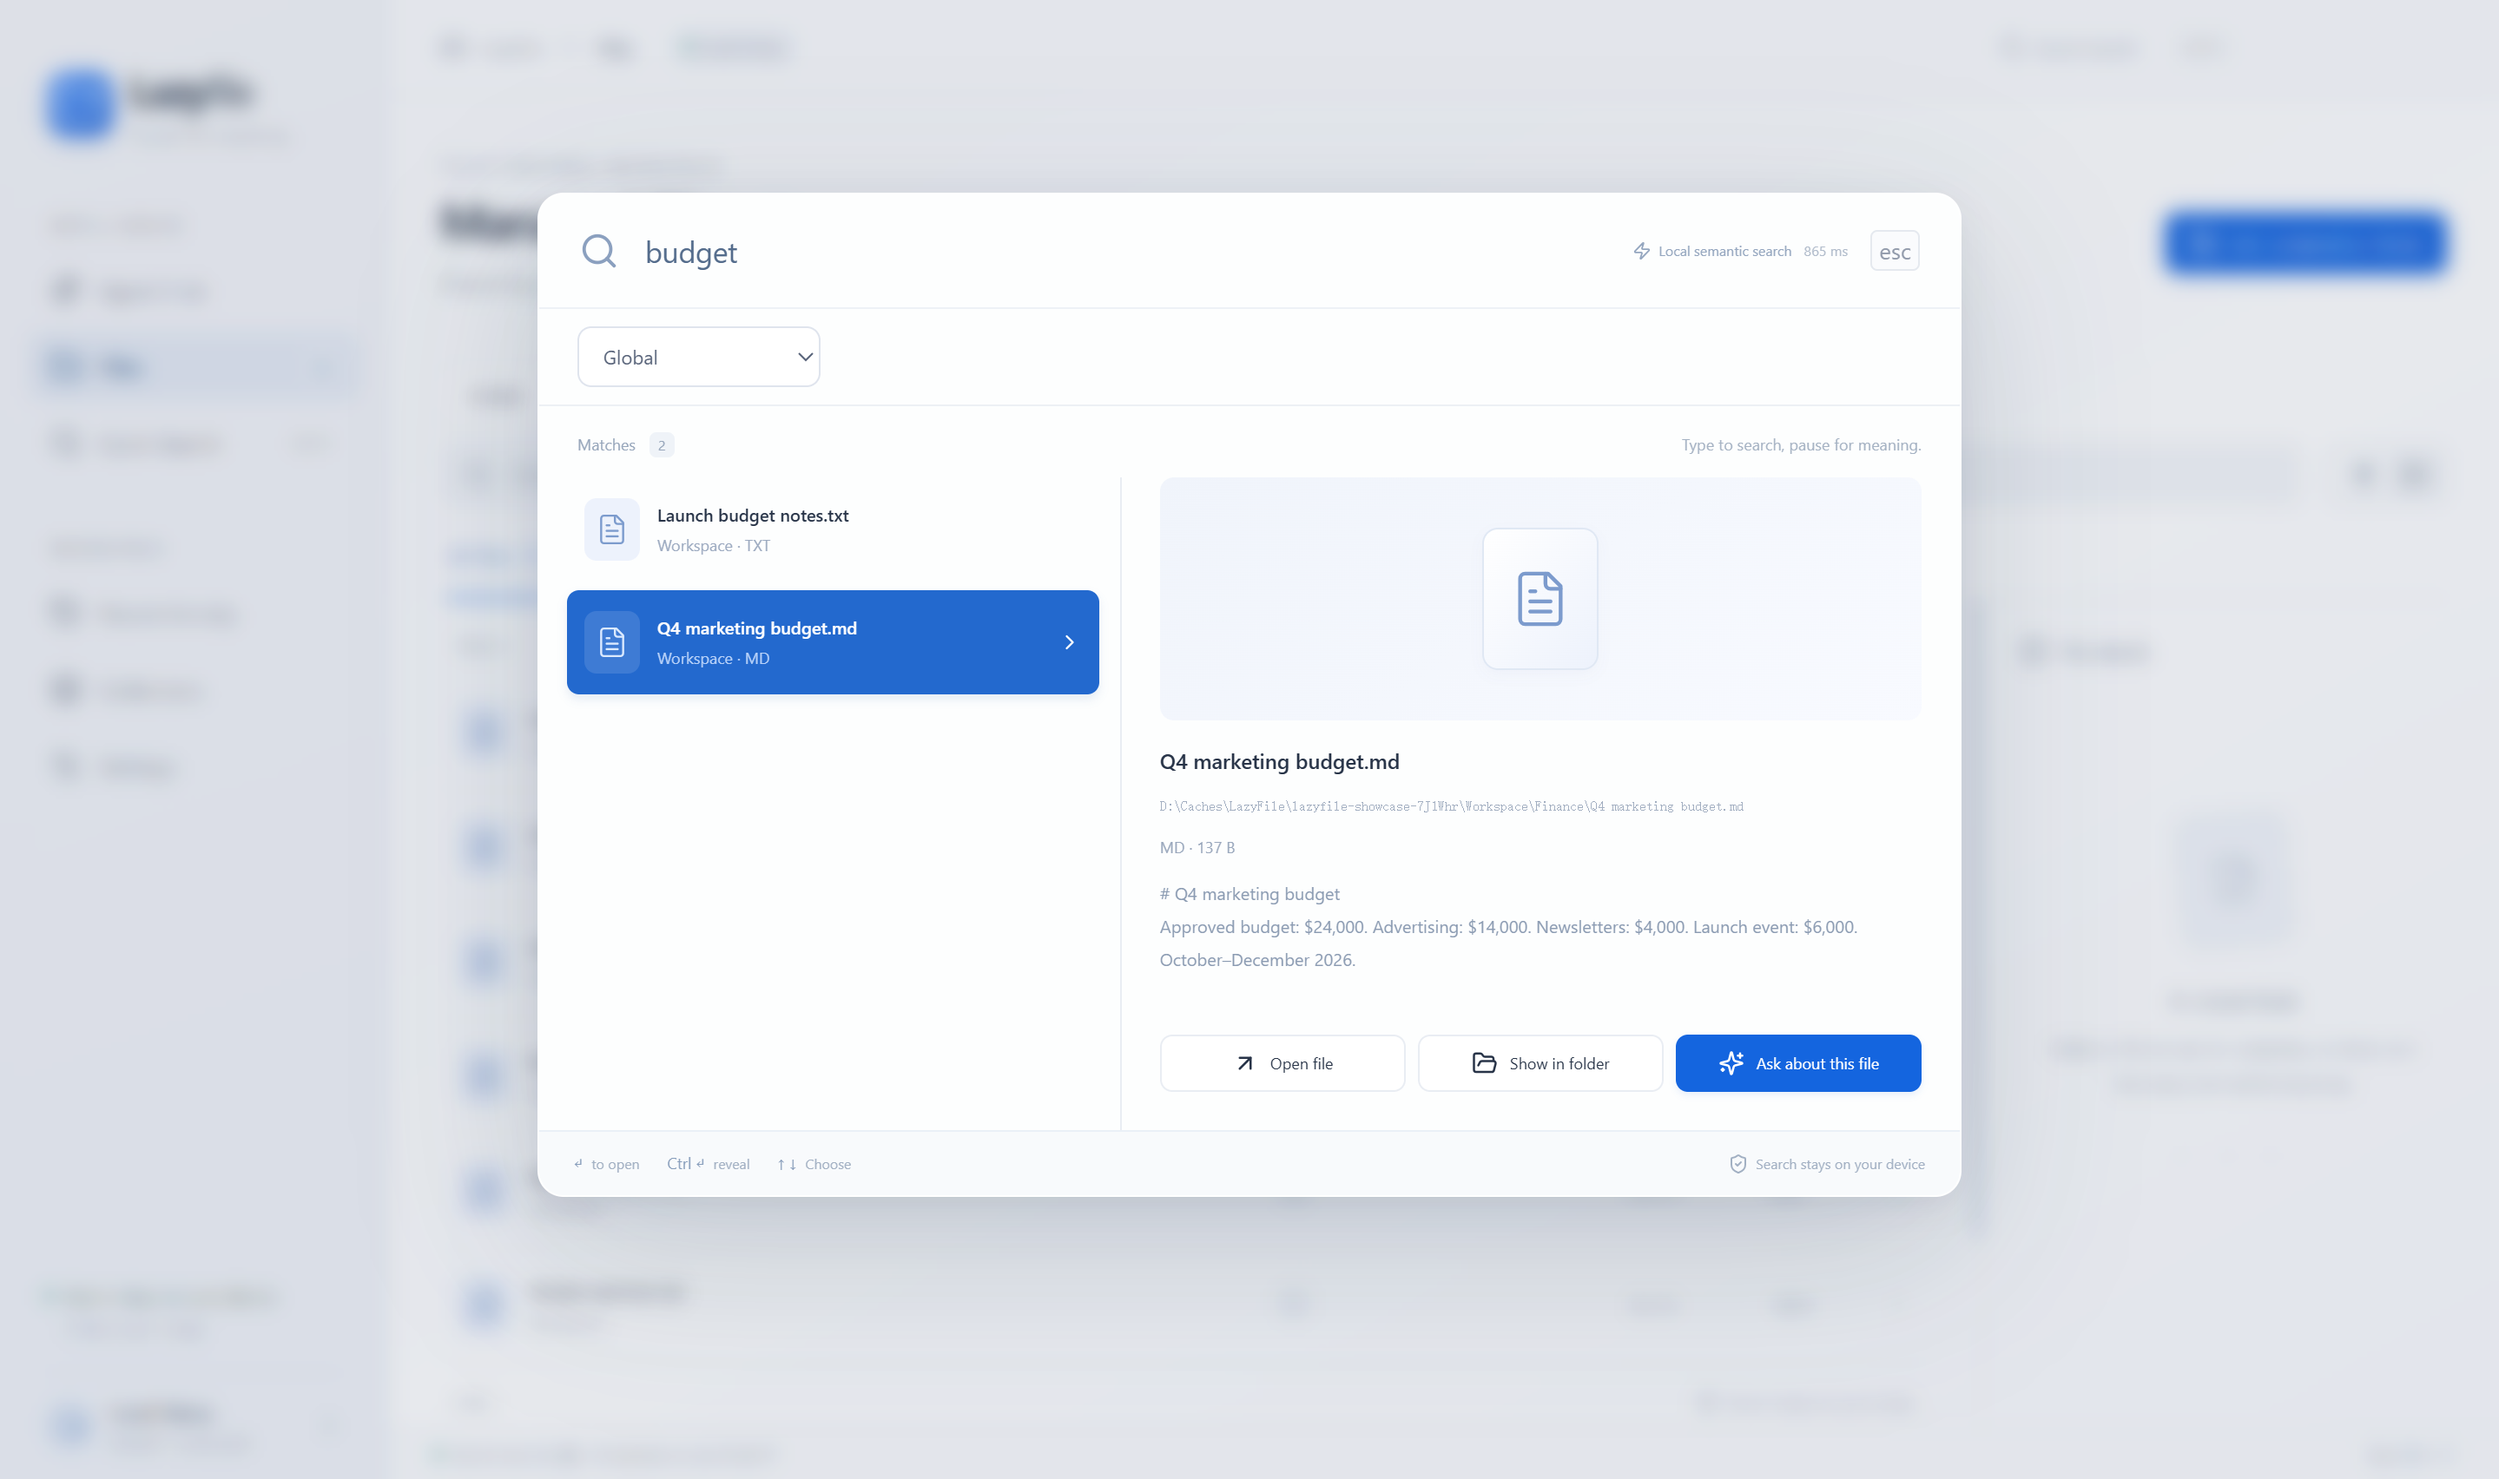
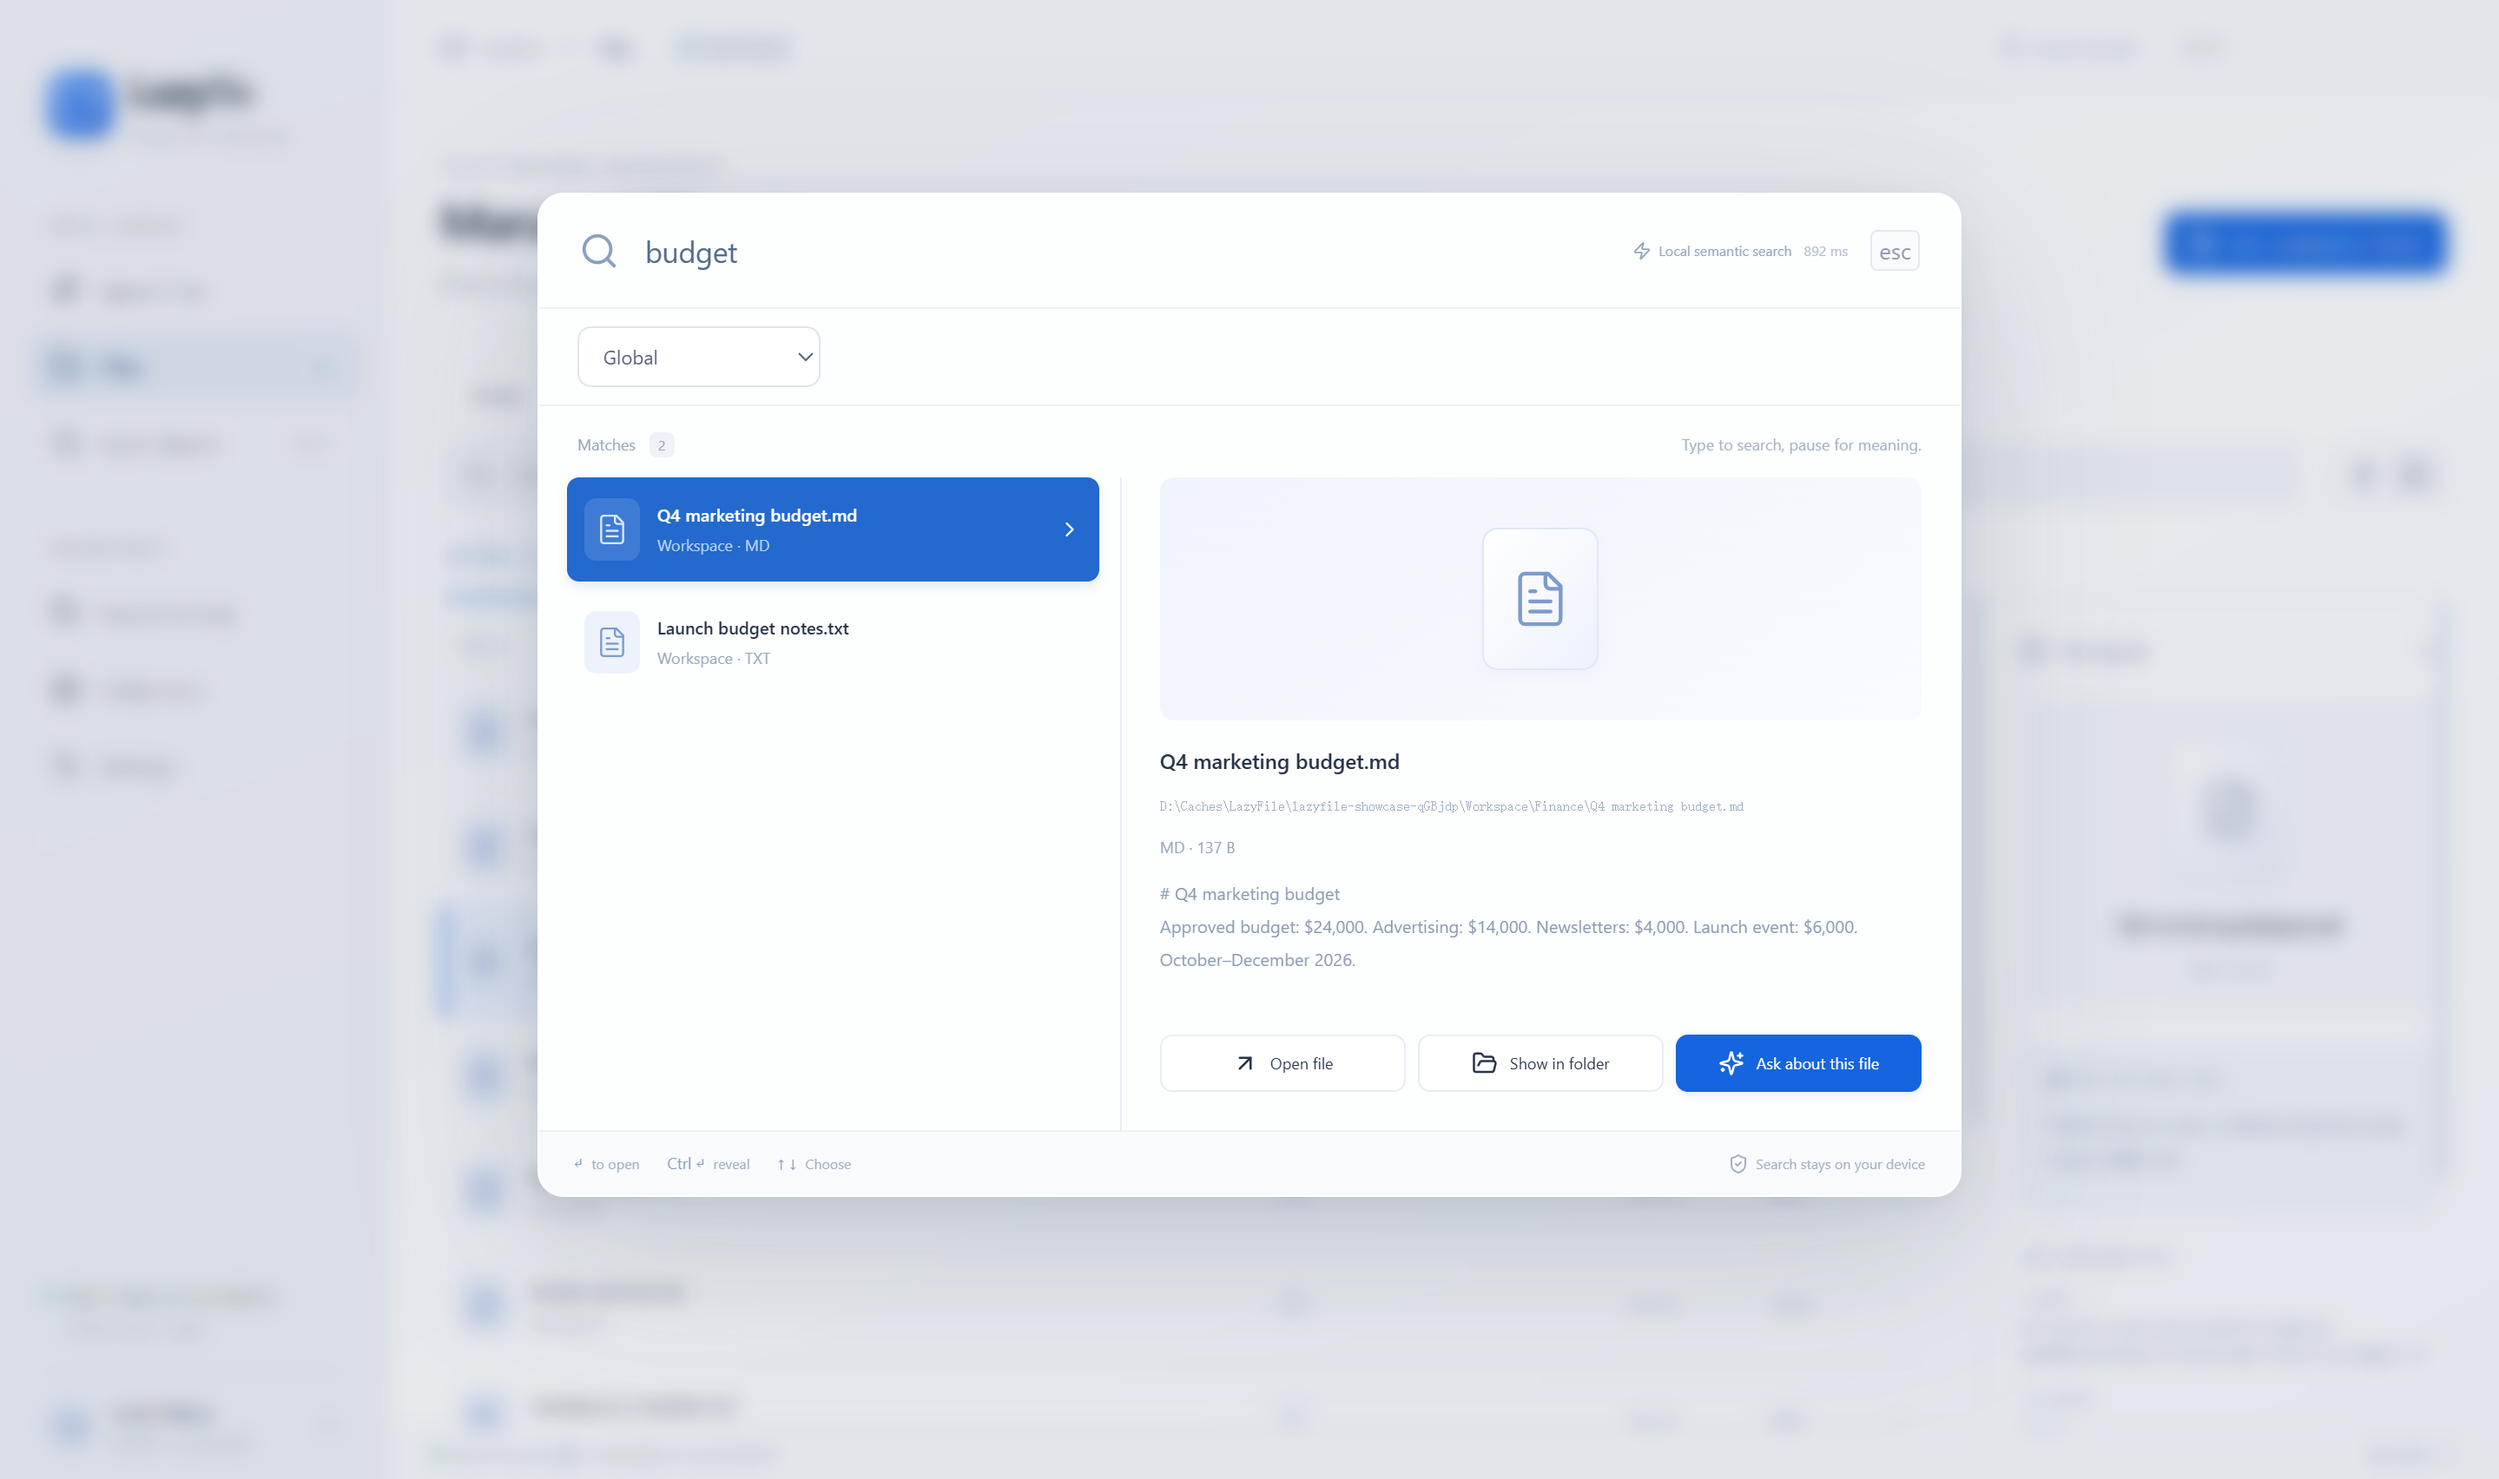
Add illustrated page tour to English and Chinese READMEs

diff --git a/README.md b/README.md
@@ -21,6 +21,44 @@ Quick search combines local semantic and keyword retrieval, powered by [DigUp](h
 
 The assistant can move between search results, folder guides and file contents. It can narrow the search as it goes, rather than relying on a single query. Results link back to the actual files so you can preview, open or reveal them in their folder.
 
+## A tour of LazyFile
+
+These screenshots show the real desktop app with a separate demonstration library. The assistant is on its welcome screen, and Collections shows its initial state before AI analysis.
+
+### Files — browse your library
+
+View workspace files and read-only observation files together, or filter by source and file type. Switch between list and grid views, filter the file list, and select a file to inspect its location, analysis status and available AI notes. Open it, reveal it in its folder, or ask the assistant about it from the details panel.
+
+![Files page with a selected budget document and its details](docs/assets/lazyfile-files.png)
+
+### Agent Chat — ask for help finding a file
+
+Describe what you remember or ask a question about a selected file. The assistant can combine search, folder browsing and reading to check the answer. Send files into the workspace from the attachment controls; the sidebar shows library status, observation folders and the optional autonomous organization setting.
+
+![Agent Chat welcome screen with file attachments and library overview](docs/assets/lazyfile-assistant.png)
+
+### Recent Activity — see what happened
+
+Review imports, file understanding and workspace operations in one timeline. Eligible workspace moves and folder creations have an undo action; undo still checks for changed files and conflicting destinations. The example below records a real copy of a demonstration file into the workspace.
+
+![Recent Activity showing the receipt of a demo file and creation of its inbox](docs/assets/lazyfile-activity.png)
+
+### Collections — browse by topic
+
+After AI understanding assigns topics, files with the same topic appear together in a collection. Open a collection to browse its files. Collections are a view of file metadata, so viewing one does not move files. Until files have been analyzed, this page shows the starting prompt below.
+
+![Collections initial state before files have been analyzed](docs/assets/lazyfile-collections.png)
+
+### Settings — choose connections and folder access
+
+Switch between English and Simplified Chinese, connect your ChatGPT account, choose an AI model, and check or configure the local DigUp search engine. Model download and index refresh controls are here too.
+
+![Settings with language, AI connection and local search controls](docs/assets/lazyfile-settings.png)
+
+Further down, choose the single writable workspace, add or remove read-only observation folders, toggle autonomous organization, and repair workspace folder guides. Advanced storage shows where LazyFile keeps its own settings, history and indexes; it is separate from your workspace.
+
+![Settings folder permissions and expanded application data location](docs/assets/lazyfile-settings-folders.png)
+
 ## Your folders, your boundaries
 
 LazyFile works with two kinds of folders:
